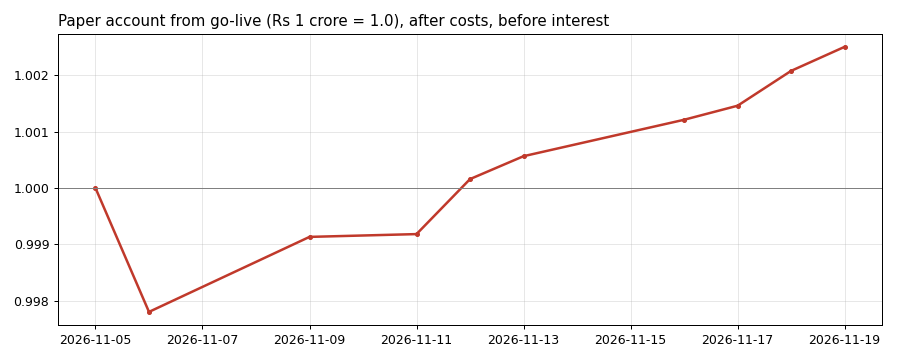
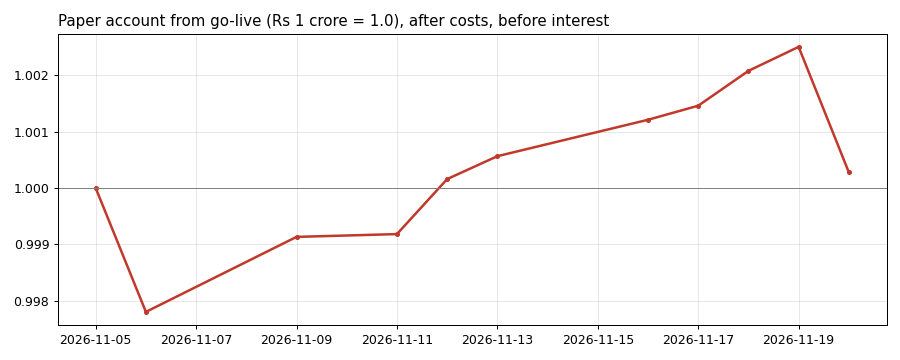
records 2026-11-20

diff --git a/README.md b/README.md
@@ -19,7 +19,7 @@ costs, and fills capped by each option's traded volume.
 <!-- live:start -->
 | Live since | Days valued | Account (paper, Rs) | Return since go-live | Last result | Latest fingerprint |
 |---|---|---|---|---|---|
-| 05 Nov 2026 | 9 | 10,025,014 | +0.25% | +0.04% (2026-11-18 book, valued 2026-11-19) | `0806d691a197...` decided 2026-11-19 at 15:14:39 IST |
+| 05 Nov 2026 | 10 | 10,002,779 | +0.03% | -0.22% (2026-11-19 book, valued 2026-11-20) | `05245cc7d136...` decided 2026-11-20 at 15:14:59 IST |
 
 *Updated automatically by each day's run. Failed days: 0. Every row: [records/daily.csv](records/daily.csv).*
 <!-- live:end -->
